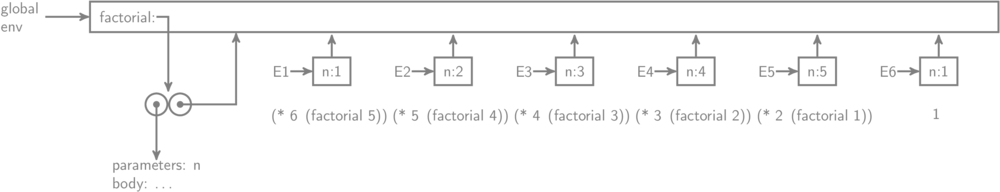
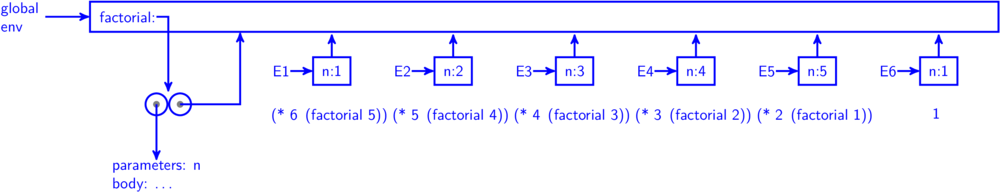
Before replacing everything with blue in tikz

diff --git a/index.tex b/index.tex
@@ -1,4 +1,4 @@
-% Created 2020-05-25 Mon 14:42
+% Created 2020-05-27 Wed 10:43
 % Intended LaTeX compiler: lualatex
 \documentclass[a4paper,12pt,twoside]{report}
 \usepackage{graphicx}
@@ -17,10 +17,10 @@
 \usepackage[a4paper,margin=1cm]{geometry}
 \author{Vladimir Nikishkin}
 \date{\today}
-\title{Figure 1.3 A linear recursive process for computing \(6!\).}
+\title{Exercise 3.9 Environment structures}
 \hypersetup{
  pdfauthor={Vladimir Nikishkin},
- pdftitle={Figure 1.3 A linear recursive process for computing \(6!\).},
+ pdftitle={Exercise 3.9 Environment structures},
  pdfkeywords={},
  pdfsubject={},
  pdfcreator={Emacs 26.3 (Org mode 9.3.4)}, 
@@ -30,31 +30,169 @@
 \maketitle
 \tableofcontents
 
-\lstset{numbers=left,frame=single,language=[LaTeX]TeX,label=org47a7ea4,caption= ,captionpos=b}
+Okay, this is not a very good solution. I only display the
+environments, and the code is only displayed to clarify the
+environments. The \texttt{if} special forms are expanded.
+
+Let us draw the environment number 1.
+
+\lstset{numbers=left,frame=single,language=[LaTeX]TeX,label=org49f75d7,caption= ,captionpos=b}
 \begin{lstlisting}
-\begin{minipage}{18cm}
-\begin{tikzpicture}[color=blue]
-\path node[align=left] (0,0) {
-(factorial 6)\\
-(* 6 (factorial 5))\\
-(* 6 (* 5 (factorial 4)))\\
-(* 6 (* 5 (* 4 (factorial 3))))\\
-(* 6 (* 5 (* 4 (* 3 (factorial 2)))))\\
-(* 6 (* 5 (* 4 (* 3 (* 2 (factorial 1))))))\\
-(* 6 (* 5 (* 4 (* 3 (* 2 1)))))\\
-(* 6 (* 5 (* 4 (* 3 2))))\\
-(* 6 (* 5 (* 4 6)))\\
-(* 6 (* 5 24))\\
-(* 6 120)\\
-720};
-\path[draw,>->,>={Triangle[open]},thick,rounded corners=30pt] 
-(-1cm,2.3cm) .. controls (0cm,2.3cm) and (-0.8cm,2.3cm) .. (4cm, 0.2cm)
- .. controls (-1.6cm,-2.3cm) .. (-2.4cm,-2.3cm );
+\begin{tikzpicture}[inner sep=0mm,>=stealth',very thick,color=blue,
+     font=\sffamily,pics/two dots/.style={code={
+     \node [draw,minimum size=5mm,circle,colored tokens={black!50}]
+     (#1-left) {};
+    \node [draw,minimum size=5mm,circle,colored tokens={black!50},
+    right=0pt of #1-left]
+        (#1-right) {};
+    \node [rectangle, fit=(#1-left) (#1-right)] (#1){};
+    }},
+    every pin edge/.style={<-,very thick},
+    box/.style={draw,rectangle,inner sep=#1},box/.default=2mm]
+  %
+  \node (W1)  {factorial:};
+  \node (fake1) [right=190mm of W1] {};
+  %
+  \node (g env) [box, fit=(W1) (fake1),
+  pin={[text width=1cm,pin distance=10mm]left:global env}]
+  { };
+  %
+  \path ([yshift=-20mm]W1.east)pic{two dots=w1fun}
+    (w1fun) edge [<-, to path={|- (\tikztotarget)}] (W1.east);
+  %
+  \node [below=of w1fun-left, align=left] {parameters: n \\ body: \dots}
+    edge [<-] (w1fun-left.center);
+
+  \path (w1fun-right.center) edge[->,to path={-| (\tikztotarget)}]
+    (node cs:name=g env,angle=183);
+\path (g env.south west) -- (g env.south east)
+\foreach \idx in {1,...,5}
+{
+  node [pos=1/7.5+\idx/7.5] (fake2-\idx)  {}
+  node (E\idx-env) [below=5mm of fake2-\idx,box,
+    pin={[pin distance=5mm]left:E\idx}] {n:\idx}
+    edge [->] (fake2-\idx)
+
+  node (E\idx-code) [below=5mm of E\idx-env, align=center]{
+       (* \the\numexpr7-\idx \hskip5pt (factorial \the\numexpr6-\idx))
+    }
+}
+node [pos=1/7.5+6/7.5] (fake2-6) {}
+node (E6-env) [below=5mm of fake2-6,box,
+    pin={[pin distance=5mm]left:E6}] {n:1}
+    edge [->] (fake2-6)
+node (E6-code) [below=5mm of E6-env, align=center]{
+       1
+    };
+%\draw (g env.south east) node [draw=red,rectangle]  {debug};
 \end{tikzpicture}
-\end{minipage}
 \end{lstlisting}
 
 \begin{center}
-\includegraphics[width=.9\linewidth]{figure-1-3-factorial.png}
+\includegraphics[width=.9\linewidth]{exercise-3-9-part-1.png}
 \end{center}
+
+
+Let us draw the environment number 2.
+
+
+\lstset{numbers=left,frame=single,language=[LaTeX]TeX,label=org948427c,caption= ,captionpos=b}
+\begin{lstlisting}
+\begin{tikzpicture}[inner sep=0mm,>=stealth',very thick,color=black!50,
+     font=\sffamily,pics/two dots/.style={code={
+     \node [draw,minimum size=5mm,circle,colored tokens={black!50}]
+     (#1-left) {};
+    \node [draw,minimum size=5mm,circle,colored tokens={black!50},
+    right=0pt of #1-left]
+        (#1-right) {};
+    \node [rectangle, fit=(#1-left) (#1-right)] (#1){};
+    }},
+    every pin edge/.style={<-,very thick},
+    box/.style={draw,rectangle,inner sep=#1},box/.default=2mm]
+
+  \node (W1)   {factorial:};
+  \node (fake1) [right=340mm of W1] {};
+  \node (fact-iter) [above=1mm of W1] {fact-iter:};
+%
+  \node (g env) [box, fit=(W1) (fake1) (fact-iter),
+  pin={[text width=1cm,pin distance=10mm]left:global env}]
+  { };
+  % factorial
+  \path ([yshift=-20mm]W1.east)pic{two dots=w1fun}
+    (w1fun) edge [<-, to path={|- (\tikztotarget)}] (W1.east);
+  \node [below=of w1fun-left, align=left] {\ttfamily \noindent parameters:\vphantom{d}n \\ body: \dots}
+    edge [<-] (w1fun-left.center);
+  \draw[->] (w1fun-right.center) -| ([xshift=3mm] w1fun-right.east |- g env.south);
+
+  % fact-iter
+\path coordinate[base right=22mm of w1fun.east] (aux)
+    (aux) pic{two dots=fact-iter-fun}
+    (fact-iter-fun) edge [<-, to path={|- (\tikztotarget)}] (fact-iter.east);
+  \node [below=of fact-iter-fun-left, align=left,node font=\ttfamily] {
+     parameters:product,\\
+     \phantom{parameters:}counter,\\
+     \phantom{parameters:}max-count \\ body: \dots}
+    edge [<-] (fact-iter-fun-left.center);
+  \draw[->] (fact-iter-fun-right.center) -| ([xshift=3mm] fact-iter-fun-right.east |- g env.south);
+
+\path (g env.south west) -- (g env.south east)
+\foreach \idx in {1,...,6}
+{
+
+  node [pos=2.6/7.5+\idx/11] (fake2-\idx)  {}
+  node (E\idx-env) [below=5mm of fake2-\idx,box,
+    pin={[pin distance=5mm]left:E\idx}, align=left] {
+        counter:\idx\\
+        product:\pgfmathparse{int(factorial(\idx-1))}\pgfmathresult \\
+        max-count:6}
+    edge [->] (fake2-\idx)
+
+  node (E\idx-code) [below=5mm of E\idx-env, align=left]{
+       (fact-iter\\
+        (* counter product) \\
+       (+ counter 1)  \\
+       max-count)
+    }
+}
+node [pos=2.6/7.5+7/11] (fake2-7) {}
+node (E7-env) [below=5mm of fake2-7,box,
+    pin={[pin distance=5mm]left:E7},align=left]
+    {counter:7\\
+     product:\pgfmathparse{int(factorial(7-1))}\pgfmathresult \\
+     max-count:6
+    }
+    edge [->] (fake2-7)
+node (E7-code) [below=5mm of E7-env, align=center]{
+       720
+    }
+node [pos=2.0/7.5] (fake2-0) {}
+node (E0-env) [below=5mm of fake2-0, box,
+    pin={[pin distance=5mm]left:E0},align=left]
+    {n:6}
+    edge [->] (fake2-0)
+node (E0-code) [below=5mm of E0-env, align=left]{
+  (fact-iter 1 1 n)}
+;
+
+\end{tikzpicture}
+\end{lstlisting}
+
+\begin{center}
+\includegraphics[width=.9\linewidth]{exercise-3-9-part-2.png}
+\end{center}
+
+These pictures would have never happened unless generous people from
+\TeX{} StackExchange had helped.
+
+\begin{itemize}
+\item \url{https://tex.stackexchange.com/questions/515909/how-to-make-this-tikz-picture-more-idiomatic-environment-diagram/515913}
+\item \url{https://tex.stackexchange.com/questions/516560/how-to-place-evenly-spaced-nodes-in-tikz-from-node1-to-node2}
+\item \url{https://tex.stackexchange.com/questions/517061/how-to-debug-token-positions-in-petri-nets-in-tikz}
+\item \url{https://tex.stackexchange.com/questions/517217/how-is-text-indented-and-glued-within-tikz-node-contents}
+\end{itemize}
+
+I feel that these diagrams are already quite cluttered, so I am
+implicitly expanding \texttt{if} forms in the "code" blocks. I am also
+ignoring top level commands and I am not drawing arrows when function
+calls occur.\footnote{This exercise took me about 40 hours.}
 \end{document}
